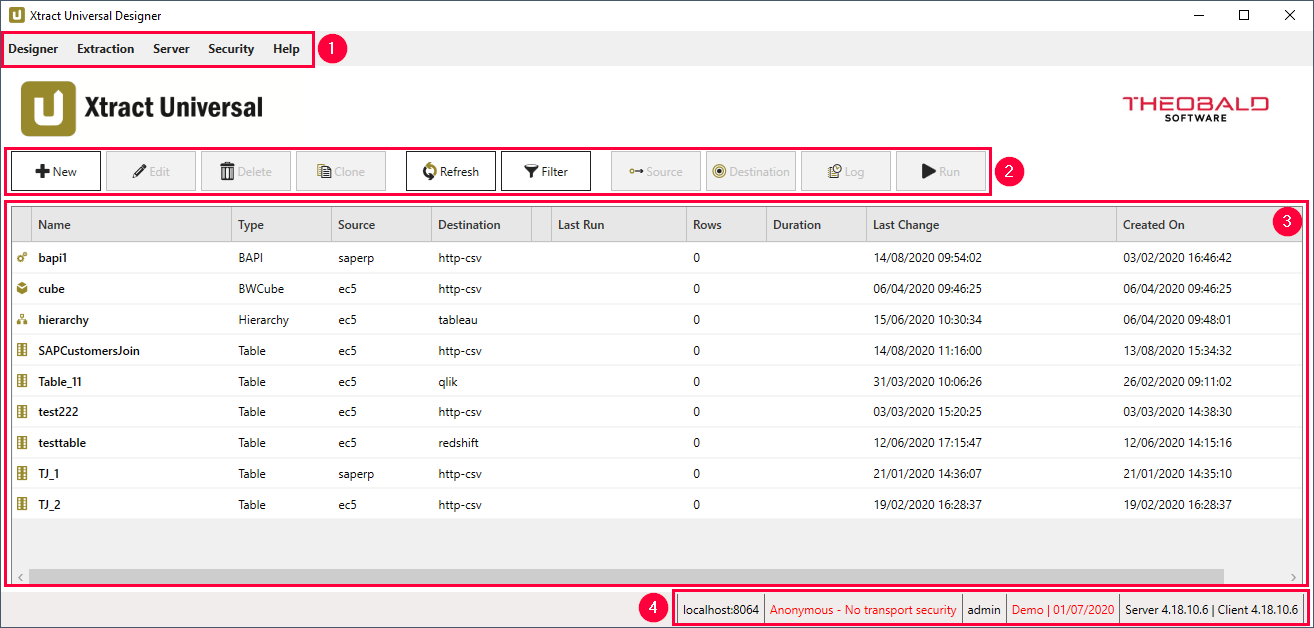
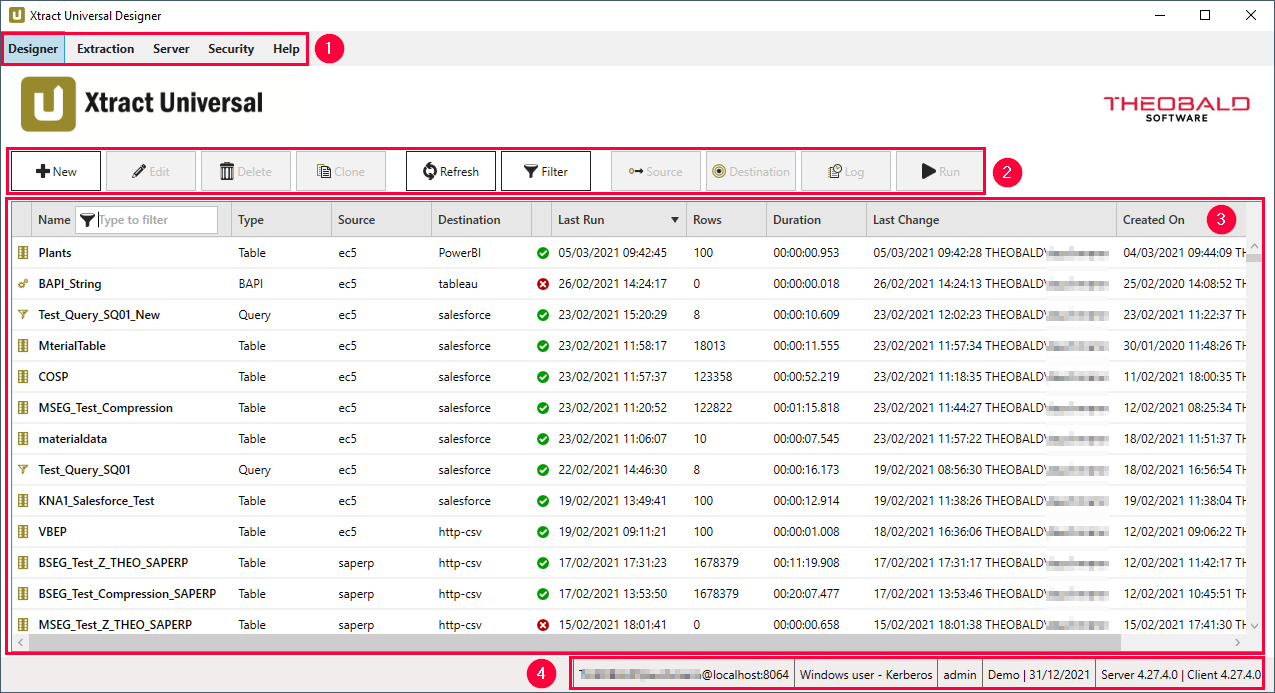
Review XU Run Window EN DE
Review XU Run Window EN DE

diff --git a/content/_de/xtract-universal/erste-schritte/eine-extraktion-ausfuehren.md b/content/_de/xtract-universal/erste-schritte/eine-extraktion-ausfuehren.md
@@ -68,19 +68,26 @@ In **URL** und **xu.exe** wird ein generierter String angezeigt, der sich automa
 Benutzen Sie diese Strings, um eine Extraktion auch außerhalb vom Xtract Universal Designer durchzuführen.
 
 #### URL
-1. Kopieren Sie die URL mit dem Button rechts.
-2. Geben Sie die URL in einem Webbrowser Ihrer Wahl ein.
-3. Die Extraktion wird ausgeführt und das Ergebnis im Browser angezeigt. 
-	
-Dieses Vorgehen entspricht der "Run in browser"-Funktionalität, die über Rechtsklick auf eine Extraktion verfügbar ist.
+Die Extraktions-URL kann für verschiedene Anwendungsfälle verwendet werden. 
+- Rufen Sie die Extraktion dort auf, wo es mit dem Kommandozeilen-Tool xu.exe nicht möglich ist, z. B. aus cloudbasierten Zielumgebungen.
+- Rufen Sie die URL auf, wenn eine [Pull-Destination] (../xu-destinationen/#pull--und-push-destinationen) verwendet wird.
+- Führen Sie die Extraktion in einem Webbrowser aus, z. B. zu Testzwecken. 
+- Weitere Anwendungsfälle sind möglich, z. B. der Aufruf in einem PowerShell-Skript. 
 
-![Table-Extraction-Browser-Result](/img/content/run_ausgabe_browser_xu.png){:class="img-responsive"}
+{: .box-note }
+**Hinweis:** 
+Das Kopieren der URL mit **[Strg+C]** oder dem Button auf der rechten Seite und das Ausführen in einem Webbrowser entspricht der Funktionalität "Run in browser", die durch Rechtsklick auf eine Extraktion in der [Hauptfenster Übersicht](../erste-schritte/designer-overview) verfügbar ist.
 
 #### xu.exe 
-Der in **xu.exe** angezeigte Befehl ermöglicht es, Extraktionen mit einem Windows Task Scheduler zu planen.
-Mehr Informationen bzgl. des Planens einer Extraktion mit **xu.exe** finden Sie unter [Exraktion einplanen](../fortgeschrittene-techniken/extraktion_einplanen).
+Der in **xu.exe** angezeigte Befehl ermöglicht die Ausführung einer Extraktion mit dem Kommandozeilen-Tool, das mit Xtract Universal installiert wird.
+Das Tool befindet sich im Installationsordner: ```C:\Program Files\XtractUniversal\xu.exe``` <br>
+Der Befehl kann mit **[STRG+C]** oder dem Button auf der rechten Seite kopiert werden. 
 
-Die Parameter "-s" (Server der Extraktion), "-p" (Listening-Port des Xtract Universal Servers) und "-n" (Name der Exraktion) werden für jede Extraktion generiert.
+Wir empfehlen die Verwendung des Kommandozeilen-Tools mit [Push-Destinationen](../xu-destinationen/#pull--und-push-destinationen).
+Der Befehl kann von einem Windows-Skript oder einem beliebigen Scheduler, der Windows-Kommandozeilenaufrufe ausführen kann, aufgerufen werden. <br>
+Im einfachsten Fall kann der Windows Task Scheduler zum Aufrufen und Planen von Extraktionen mit **xu.exe** verwendet werden. Ausführlichere Informationen zum einplanen von Extraktionen finden Sie unter [Planen einer Extraktion](../fortgeschrittene-techniken/extraktion_einplanen).
+
+Die Parameter "-s" (Server für die Extraktion), "-p" (Listener-Port des Xtract Universal Servers) und "-n" (Name der Exraktion) werden standardmäßig für jede Extraktion generiert.
 
 ### Logs und Output (4) 
 Wenn eine Extraktion ausgeführt wird, werden hier aktuelle Informationen angezeigt.

diff --git a/content/_en/xtract-universal/getting-started/run-an-extraction.md b/content/_en/xtract-universal/getting-started/run-an-extraction.md
@@ -67,19 +67,19 @@ Use them to run the extraction outside of the Xtract Universal Designer.
 
 #### URL
 The extraction URL can be used in different integration scenarios and use cases. 
-- Call the extraction where it is not possible with the command-line tool xu.exe. 
+- Call the extraction where it is not possible with the command-line tool xu.exe, e.g. from cloud based environments.
 - Call the URL when the extraction is set to a [Pull Destination](../destinations#pull-and-push-destinations).
 - Run the extraction in a web browser, e.g. for testing purposes. 
-- Other use cases are basically possible (e.g. usage in a PowerShell script, etc.) 
+- Other use cases are possible, e.g. calling it in a PowerShell script. 
 
 {: .box-note }
 **Note:** 
-Copying the URL with Ctrl+C or the button on the right side and execute it in a web browser corresponds to the "Run in browser" functionality available by right-clicking an extraction in the [Main Window Overview](../getting-started/designer-overview).
+Copying the URL with **[Ctrl+C]** or the button on the right side and execute it in a web browser corresponds to the "Run in browser" functionality available by right-clicking an extraction in the [Main Window Overview](../getting-started/designer-overview).
 
 #### xu.exe 
 This command allows running an extraction with the command-line tool **xu.exe**, which is installed with Xtract Universal.
-The tool can be found in the installation folder: ```C:\Program Files\XtractUniversal\``` <br>
-The expression can be copied with CTRL+C or the button on the right side. 
+The tool can be found in the installation folder: ```C:\Program Files\XtractUniversal\xu.exe``` <br>
+The expression can be copied with **[CTRL+C]** or the button on the right side. 
 
 We recommend using the command-line tool with [Push Destinations](../destinations#pull-and-push-destinations).
 It can be called from a Windows script or any scheduler, that can invoke Windows command-line calls. <br>

diff --git a/_includes/_content/de/xu-specific/fortgeschrittene-techniken/designer_overview.md b/_includes/_content/de/xu-specific/fortgeschrittene-techniken/designer_overview.md
@@ -86,7 +86,24 @@ Run  | Ausgewählte Extraktion ausführen  |
 
 ### Auflistung der Extraktionen (3)
 Liste aller Extraktionen unterteilt nach Namen, Typ, Änderungs- und Erstellungsdatum usw.
+Sie können einen Filterwert für den Extraktionsnamen eingeben, Platzhalterzeichen werden nicht unterstützt. <br> 
+Umfangreichere Filteroptionen sind über die Schaltfläche [Filter](../fortgeschrittene-techniken/regulaere-ausdruecke) im Bereich [GUI-Schaltflächen (2)](./designer-overview#gui-schaltflächen-2) verfügbar. 
 
+Ein Rechtsklick auf eine Extraktion in der Liste öffnet das folgende Menü:
+![menu_list_of_extractions](/img/content/xu/menu_list_of_extractions.png){:class="img-responsive"}
+
+Menüeintrag |Beschreibung | Details
+------------ | ------------ | -------------
+Edit | Vorhandene Extraktion bearbeiten | -
+Delete | Vorhandene Extraktion bearbeiten | -
+Clone | Vorhandene Extraktion klonen | -
+Log | Extraktions-Log aufrufen | [Extraktions-Logging](../logging/log-zugriff-ueber-designer#extraktions-logs)
+Source | Vorhandenes SAP Quellsystem auswählen | -
+Destination (nur Xtract Universal) | Destination auswählen | [Destinationen](https://help.theobald-software.com/de/xtract-universal/xu-destinationen)
+Run  | Ausgewählte Extraktion ausführen | [Eine Extraktion ausführen](../erste-schritte/eine-extraktion-ausfuehren)
+Run in browser | Ausgewählte Extraktion im Standard Webbrowser ausführen | - 
+Run in xu.exe | Ausgewählte Extraktion im Kommandozeilen-Tool xu.exe ausführen | - 
+Abort | Ausgewählte Extraktion abbrechen | -
 
 ### Statusleiste (4)
 Statusleiste beinhaltet Informationen zu Authentifizierungsmethode, zum verbundenen Server, zu der Lizenz mit der Gültigkeitsdauer usw.

diff --git a/_includes/_content/en/xu-specific/advanced-techniques/designer_overview.md b/_includes/_content/en/xu-specific/advanced-techniques/designer_overview.md
@@ -1,8 +1,8 @@
 
 The main window of the Designer consists of three main sections:
 - Main Menu Bar (1)
-- GUI Buttons(2)
-- List of Extractions(3)
+- GUI Buttons (2)
+- List of Extractions (3)
 - Status bar (4)
 
 ### Main Menu Bar (1)
@@ -87,6 +87,9 @@ Run  | Run a selected extraction  |
 
 ### List of Extractions (3)
 List of all extractions divided by name, type, modification and creation date etc. <br>
+You can enter a filter value for the extraction name, wildcard characters are not supported. <br> 
+More extensive filter options are available via the [Filter](../advanced-techniques/regular-expressions) button in the [GUI Buttons (2)](./designer-overview#gui-buttons-2) section. 
+
 Right-clicking on an extraction in the list opens the following menu:
 
 ![menu_list_of_extractions](/img/content/xu/menu_list_of_extractions.png){:class="img-responsive"}

diff --git a/content/_en/xtract-universal/xu-destinations/qliksense-qlikview/generating-data-load-script.md b/content/_en/xtract-universal/xu-destinations/qliksense-qlikview/generating-data-load-script.md
@@ -12,7 +12,7 @@ old_url: /Xtract-Universal-EN/default.aspx?pageid=generating_data_load_script
 ---
 ### Displaying the Qlik Data Load Script
 1. Run an extraction with a "Qlik" destination. The window "Run Extraction" opens.
-![XU_qlik_generate_Script](/img/content/XU_qlik_generate_Script.png){:class="img-responsive"}
+![XU_qlik_generate_Script](/img/content/xu/XU_qlik_generate_Script.png){:class="img-responsive"}
 2. *Optional (when using QlikSense)*: In the *Parameters* section, mark the check boxes for the parameters which you wish to add as SET variables in the QlikSense script.
 3. Click **[Generate Qlik Script]** to generate a data load script. The window "Script" opens.
 

diff --git a/content/_de/xtract-universal/erste-schritte/designer-overview.md b/content/_de/xtract-universal/erste-schritte/designer-overview.md
@@ -12,7 +12,7 @@ old_url: /Xtract-Universal-DE/default.aspx?pageid=zusaetzliche-funktionen-im-des
 progressstate: 5
 ---
 
-Der Designer bietet verschiedenen Funktionalitäten für eine Extraktion. 
+Der Designer bietet verschiedenen Funktionalitäten für eine Extraktion.
 
 ![Designer](/img/content/xu/xu_designer_main-window.png){:class="img-responsive"}
 
